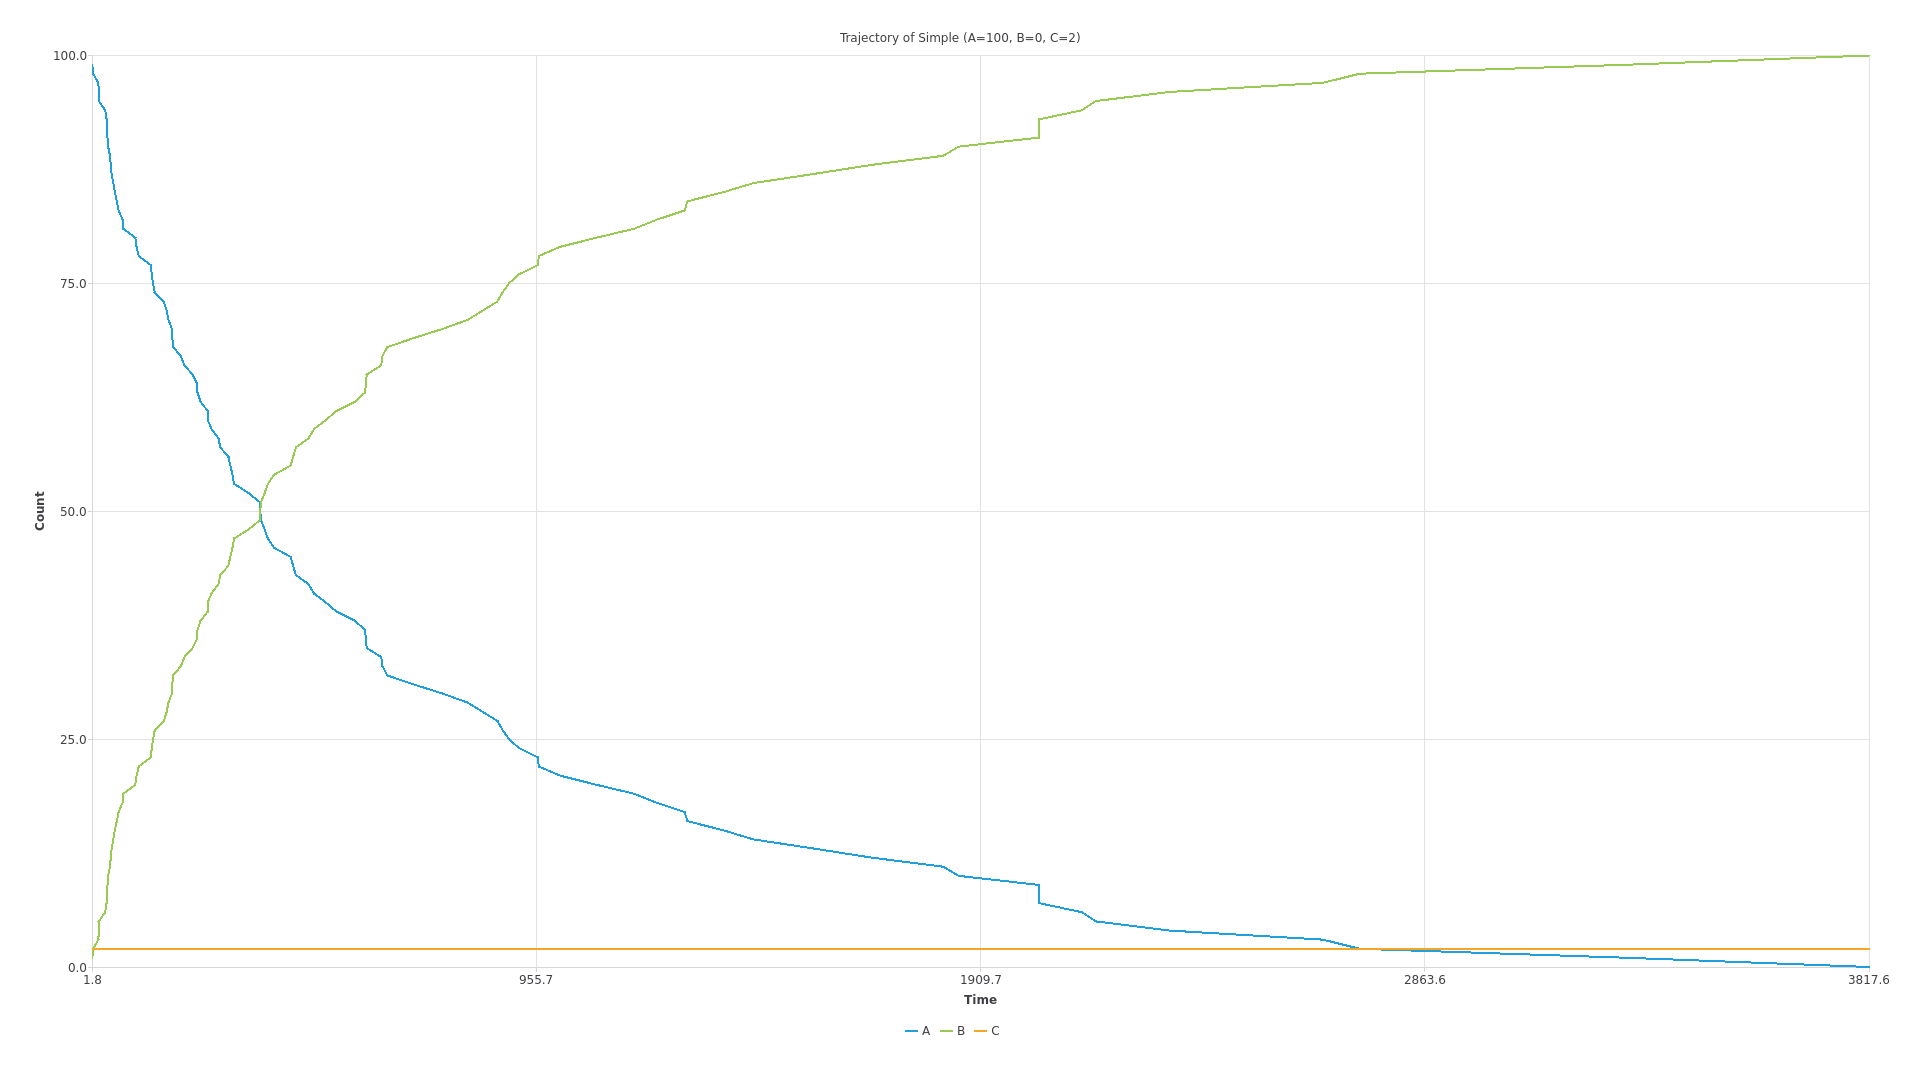
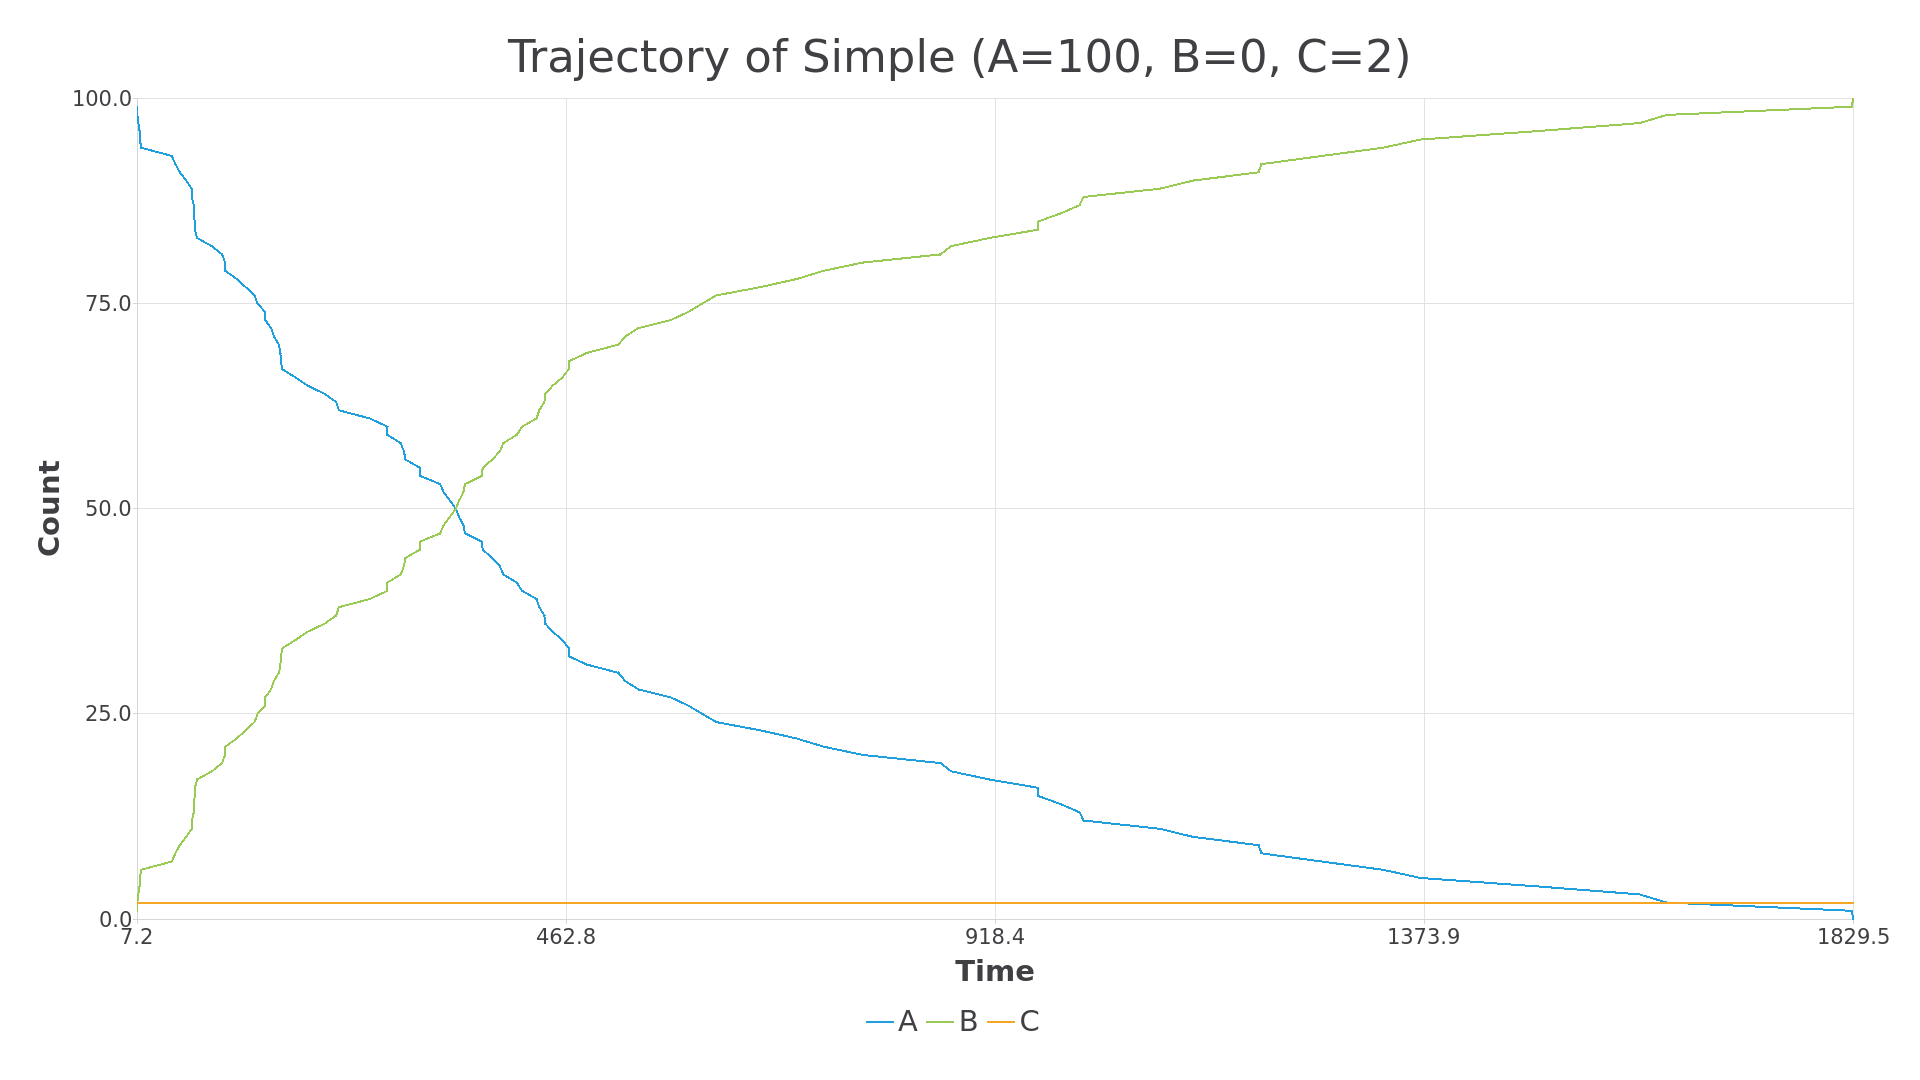
write report

diff --git a/exam_assignment/report/src/index.tex b/exam_assignment/report/src/index.tex
@@ -15,7 +15,7 @@ The project also heavily relies on the course-provided plotting library, which u
 This can be installed via \texttt{sudo apt install libqt5charts5-dev}. The plotting library has been modified to accomodate new uses.
 
 The \texttt{CMakeLists.txt} files show how the project is compiled.
-To do the compilation, run \texttt{cmake .. -DCMAKE_BUILD_TYPE=Debug} or \texttt{cmake .. -DCMAKE_BUILD_TYPE=Release} from within a build directory, and then run \texttt{make}.
+To do the compilation, run \texttt{cmake .. -DCMAKE\_BUILD\_TYPE=Debug} or \texttt{cmake .. -DCMAKE\_BUILD\_TYPE=Release} from within a (build) directory, and then run \texttt{make}.
 
 \subsection{Project structure}
 \dirtree{%
@@ -61,7 +61,10 @@ To do the compilation, run \texttt{cmake .. -DCMAKE_BUILD_TYPE=Debug} or \texttt
 }
 
 \section{Demonstration}
+Each of these were run after building the library in release mode.
+
 \subsection{Pretty-printing in human-readable format}
+\subsubsection{SEIHR}
 \begin{verbatim}
 S + I → E + I (rate: 7.74194e-06)
 E → I (rate: 0.196078)
@@ -69,6 +72,8 @@ I → R (rate: 0.322581)
 I → H (rate: 0.000290061)
 H → R (rate: 0.0988142)
 \end{verbatim}
+
+\subsubsection{Circadian Oscillator}
 \begin{verbatim}
 A + DA → D_A (rate: 1)
 D_A → DA + A (rate: 50)
@@ -87,10 +92,161 @@ R → environment (rate: 0.2)
 MA → environment (rate: 10)
 MR → environment (rate: 0.5)
 \end{verbatim}
+
+\subsubsection{Simple}
 \begin{verbatim}
 A + C → B + C (rate: 0.001)
 \end{verbatim}
 
+\subsection{Reaction network graphs}
+Figure~\ref{fig:graphs} shows the reaction network graphs.
+The graphs were generated using the \texttt{graphviz} library.
+Subsection \ref{subsection:graph_generator} shows how the graphs are created.
+
+\begin{figure}[H]
+\centering
+\begin{subfigure}{.3\textwidth}
+  \centering
+  \includegraphics[width=.9\linewidth]{images/circadian\_graph.png}
+  \caption{Circadian Graph}
+  \label{fig:circadian}
+\end{subfigure}%
+\begin{subfigure}{.3\textwidth}
+  \centering
+  \includegraphics[width=.9\linewidth]{images/simple\_graph.png}
+  \caption{Simple Graph}
+  \label{fig:simple}
+\end{subfigure}
+\begin{subfigure}{.3\textwidth}
+  \centering
+  \includegraphics[width=.9\linewidth]{images/seihr\_graph.png}
+  \caption{SEIHR Graph}
+  \label{fig:seihr}
+\end{subfigure}
+\caption{Reaction graphs over various systems}
+\label{fig:graphs}
+\end{figure}
+
+\subsection{Simulations}
+The following figures show simulations run on the systems shown in Figure~\ref{fig:graphs}.
+These graphs show the evolution of the agents of various species within the system over time, as reactions occur.
+
+\subsubsection{Simple system}
+Figure~\ref{fig:simple_sim} shows a simple system simulation.
+The implementation of the system is shown in section \ref{subsection:simple}, and the plot implementation is shown in section \ref{subsection:main}.
+
+\begin{figure}[H]
+\centering
+\includegraphics[width=1\textwidth,height=\textheight,keepaspectratio]{images/simple.png}
+\caption{Simple system simulation, given by A=100, B=0, C=2. Simulation end time set to $100.000$, but ends prior to that as no further reactions were possible.}
+\label{fig:simple_sim}
+\end{figure}
+
+\subsubsection{Circadian Oscillator}
+Figure~\ref{fig:circadian_sim} shows a circadian system simulation.
+The implementation of the system is shown in section \ref{subsection:circadian}, and the plot implementation is shown in section \ref{subsection:main}.
+
+\begin{figure}[H]
+\centering
+\includegraphics[width=1\textwidth,height=\textheight,keepaspectratio]{images/circadian.png}
+\caption{Circadian system simulation. Simulation end time set to $100$. Graph shows evolution of agents of \textit{C}, \textit{A}, and \textit{R} over time.}
+\label{fig:circadian_sim}
+\end{figure}
+
+\subsubsection{SEIHR}
+Figure~\ref{fig:seihr_sim} shows a SEIHR system simulation.
+The implementation of the system is shown in section \ref{subsection:seihr}, and the plot implementation is shown in section \ref{subsection:main}.
+
+\begin{figure}[H]
+\centering
+\includegraphics[width=1\textwidth,height=\textheight,keepaspectratio]{images/seihr.png}
+\caption{SEIHR system simulation. For this simulation, $N=10.000$. Simulation end time set to $100$. \textit{H}ospitalized agent quantities are multiplied by $1000$ to make them visible on the graph.}
+\label{fig:seihr_sim}
+\end{figure}
+
+\subsection{Peak hospitalized via SEIHR simulations}
+The following numbers show the average and peak number of hospitalizations over time.
+The peak number of hospitalizations is the maximum number of hospitalizations at any given time.
+
+The implementation of the system is shown in section \ref{subsection:seihr}, and the calculation implementation is shown in section \ref{subsection:peak_avg_seihr}.
+
+\begin{table}[ht]
+\centering
+\begin{tabular}{|l|c|c|}
+\hline
+\textbf{Population ($N$)} & \textbf{Avg Peak Hospitalized} & \textbf{Max Peak Hospitalized} \\
+\hline
+North Jutland ($589.755$) & 126.96 & 149 \\
+\hline
+Denmark ($5.882.763$) & 1206.95 & 1278 \\
+\hline
+\end{tabular}
+\caption{Average and maximum peak of hospitalized cases over $100$ simulations for different population sizes}
+\end{table}
+
+\subsection{Benchmarks}
+The following table shows benchmark results by benchmarking parallel and sequential simulations of the SEIHR system.
+The implementation of the system is shown in section \ref{subsection:seihr}, and the benchmark implementation is shown in section \ref{subsection:benchmark}.
+
+The benchmarks were run on a computer with an Intel(R) Core(TM) i7-8700K CPU, which has 6 cores \& 12 logical processors.
+
+The SEIHR system was given a population of $N=10.000$ and the simulation end time set to $100$.
+An empty state monitor was used to avoid any overhead from the state monitor.
+
+Prior to benchmarking, the computer was warmed up via a short warming-up process of running the simulation $10$ times with the first benchmark configuration (1 thread, 10 simulations).
+Each configuration was run 5 times and then the results for those five runs were averaged.
+
+Due to the system used to benchmark the simulations, I chose concurrency levels of $1$, $6$, $12$, and $18$.
+I expect that, due to the amount of processors, parallel simulation with 12 threads is the fastest configuration.
+This is because fewer threads would not utilize the system adequately, and more threads would simply lead to additional, unnecessary overhead.
+
+The benchmark results are shown in Table~\ref{tab:benchmark_results}.
+The results show that the parallel simulation is faster than the sequential simulation, and that, as expected, 12 threads is the fastest configuration.
+
+
+\begin{table}[htbp]
+\centering
+\begin{tabular}{|l|c|c|c|c|c|c|c|c|}
+\hline
+ & \multicolumn{2}{c|}{CL 1} & \multicolumn{2}{c|}{CL 6} & \multicolumn{2}{c|}{CL 12} & \multicolumn{2}{c|}{CL 18} \\
+\hline
+Simulations & Avg Time & Total Time & Avg Time & Total Time & Avg Time & Total Time & Avg Time & Total Time \\
+\hline
+$10$ & $21$.$18$ ms & $1$ s & $17$.$72$ ms & $0$ s & $22$.$34$ ms & $0$ s & $26$.$15$ ms & $0$ s \\
+\hline
+$100$ & $17$.$56$ ms & $8$ s & $17$.$81$ ms & $1$ s & $26$.$26$ ms & $1$ s & $42$.$44$ ms & $1$ s \\
+\hline
+$1000$ & $14$.$18$ ms & $71$ s & $17$.$56$ ms & $14$ s & $26$.$73$ ms & $11$ s & $42$.$00$ ms & $13$ s \\
+\hline
+$10000$ & $14$.$14$ ms & $711$ s & $17$.$73$ ms & $148$ s & $30$.$25$ ms & $126$ s & $40$.$85$ ms & $130$ s \\
+\hline
+\end{tabular}
+\caption{Benchmark results showing average and total runtime for each simulation under different concurrency levels (CL)}
+\label{tab:benchmark_results}
+\end{table}
+
+The following figures illustrate the benchmark results from Table~\ref{tab:benchmark_results} clearly.
+As we can see in Figure~\ref{fig:avg_sim_benchmark_results}, task times grow with increasing concurrency levels.
+This is to be expected, as the system is under greater load, so the time it takes to complete a task increases.
+However, as we can see in Figure~\ref{fig:total_sim_benchmark_results}, the total time decreases with increasing concurrency levels.
+
+\begin{figure}[H]
+\centering
+\includegraphics[width=1\textwidth,height=\textheight,keepaspectratio]{images/avg\_sim\_benchmark\_results.png}
+\caption{Benchmark results showing average runtime for each simulation under different concurrency levels (CL).}
+\label{fig:avg_sim_benchmark_results}
+\end{figure}
+
+\begin{figure}[H]
+\centering
+\includegraphics[width=1\textwidth,height=\textheight,keepaspectratio]{images/total\_sim\_benchmark\_results.png}
+\caption{Benchmark results showing total runtime for each simulation under different concurrency levels (CL).}
+\label{fig:total_sim_benchmark_results}
+\end{figure}
+
+
+
+\newpage
 
 \section{Source code}
 % Main CMakeLists.txt file
@@ -103,10 +259,10 @@ A + C → B + C (rate: 0.001)
 \subsubsection{src/CMakeLists.txt}
 \lstinputlisting[style=colorC++,caption={src/CMakeLists.txt}]{../../src/CMakeLists.txt}
 \newpage
-\subsubsection{src/main.cpp}
+\subsubsection{src/main.cpp}\label{subsection:main}
 \lstinputlisting[style=colorC++,caption={src/main.cpp}]{../../src/main.cpp}
 \newpage
-\subsubsection{src/graph\_generator.cpp}
+\subsubsection{src/graph\_generator.cpp}\label{subsection:graph_generator}
 \lstinputlisting[style=colorC++,caption={src/graph\_generator.cpp}]{../../src/graph\_generator.cpp}
 \newpage
 \subsubsection{src/graph\_generator.h}
@@ -136,22 +292,22 @@ A + C → B + C (rate: 0.001)
 % src/examples directory
 \newpage
 \subsection{src/examples}
-\subsubsection{src/examples/circadian\_oscillator.cpp}
+\subsubsection{src/examples/circadian\_oscillator.cpp}\label{subsection:circadian_oscillator}
 \lstinputlisting[style=colorC++,caption={src/examples/circadian\_oscillator.cpp}]{../../src/examples/circadian\_oscillator.cpp}
 \newpage
 \subsubsection{src/examples/examples.h}
 \lstinputlisting[style=colorC++,caption={src/examples/examples.h}]{../../src/examples/examples.h}
 \newpage
-\subsubsection{src/examples/seihr.cpp}
+\subsubsection{src/examples/seihr.cpp}\label{subsection:seihr}
 \lstinputlisting[style=colorC++,caption={src/examples/seihr.cpp}]{../../src/examples/seihr.cpp}
 \newpage
-\subsubsection{src/examples/simple.cpp}
+\subsubsection{src/examples/simple.cpp}\label{subsection:simple}
 \lstinputlisting[style=colorC++,caption={src/examples/simple.cpp}]{../../src/examples/simple.cpp}
 
 % src/exercises directory
 \newpage
 \subsection{src/exercises}
-\subsubsection{src/exercises/benchmark.cpp}
+\subsubsection{src/exercises/benchmark.cpp}\label{subsection:benchmark}
 \lstinputlisting[style=colorC++,caption={src/exercises/benchmark.cpp}]{../../src/exercises/benchmark.cpp}
 \newpage
 \subsubsection{src/exercises/benchmark.h}
@@ -163,7 +319,7 @@ A + C → B + C (rate: 0.001)
 \subsubsection{src/exercises/make\_graphs.h}
 \lstinputlisting[style=colorC++,caption={src/exercises/make\_graphs.h}]{../../src/exercises/make\_graphs.h}
 \newpage
-\subsubsection{src/exercises/peak\_avg\_seihr.cpp}
+\subsubsection{src/exercises/peak\_avg\_seihr.cpp}\label{subsection:peak_avg_seihr}
 \lstinputlisting[style=colorC++,caption={src/exercises/peak\_avg\_seihr.cpp}]{../../src/exercises/peak\_avg\_seihr.cpp}
 \newpage
 \subsubsection{src/exercises/peak\_avg\_seihr.h}

diff --git a/exam_assignment/src/plot/plot.cpp b/exam_assignment/src/plot/plot.cpp
@@ -14,6 +14,7 @@
 
 #include <random>
 #include <algorithm>
+#include <QValueAxis>
 
 QT_CHARTS_USE_NAMESPACE
 
@@ -85,6 +86,36 @@ void plot_t::process()
         ch->axes(Qt::Vertical).first()->setTitleText(y_axis_label.c_str());
     if (!ch->axes(Qt::Horizontal).isEmpty())
         ch->axes(Qt::Horizontal).first()->setTitleText(x_axis_label.c_str());
+
+    QFont font = ch->titleFont();
+    font.setPointSize(34); // Set the font size you want for the title
+    ch->setTitleFont(font);
+
+    QValueAxis *axisX = qobject_cast<QValueAxis *>(ch->axes(Qt::Horizontal).first());
+    font = axisX->labelsFont();
+    font.setPointSize(16); // Set the font size you want for the x axis
+    axisX->setLabelsFont(font);
+
+    QValueAxis *axisY = qobject_cast<QValueAxis *>(ch->axes(Qt::Vertical).first());
+    font = axisY->labelsFont();
+    font.setPointSize(16); // Set the font size you want for the y axis
+    axisY->setLabelsFont(font);
+
+    font = ch->legend()->font();
+    font.setPointSize(22); // Set the font size you want for the legend
+    ch->legend()->setFont(font);
+
+    auto* yAxis = ch->axes(Qt::Vertical).first();
+    yAxis->setTitleText(y_axis_label.c_str());
+    QFont fontY = yAxis->titleFont();
+    fontY.setPointSize(22); // change this to increase or decrease the size
+    yAxis->setTitleFont(fontY);
+
+    auto* xAxis = ch->axes(Qt::Horizontal).first();
+    xAxis->setTitleText(x_axis_label.c_str());
+    QFont fontX = xAxis->titleFont();
+    fontX.setPointSize(22); // change this to increase or decrease the size
+    xAxis->setTitleFont(fontX);
 
     ch->legend()->setMarkerShape(QLegend::MarkerShapeFromSeries);
     ch->legend()->setAlignment(Qt::AlignBottom);

diff --git a/exam_assignment/src/exercises/peak_avg_seihr.cpp b/exam_assignment/src/exercises/peak_avg_seihr.cpp
@@ -39,23 +39,17 @@ double calculate_peak(const std::vector<double>& xs) {
 
 // Solution to second part of requirement 7: Use it to estimate
 // the peak of hospitalized agents in Covid-19 example without storing trajectory data for NNJ and NDK.
-void calculate_peak_and_avg_seihr(size_t num_simulations, size_t concurrency_level) {
+void calculate_peak_and_avg_seihr(size_t num_simulations, size_t concurrency_level, size_t N) {
     auto begin = std::chrono::steady_clock::now();
-    const size_t N_NJ = 589755;
-    const size_t N_DK = 5882763;
 
     std::cout << "Simulating SEIHR..." << std::endl;
 
-    perform_parallel_simulations(N_NJ, num_simulations, concurrency_level, [&](std::vector<double> const &results) {
+    perform_parallel_simulations(N, num_simulations, concurrency_level, [&](std::vector<double> const &results) {
         double avg_peak = calculate_mean(results);
-        std::cout << "Average peak of Hospitalized in NJ over " << num_simulations << " simulations: " << avg_peak
-                  << std::endl;
-    });
-
-    perform_parallel_simulations(N_DK, num_simulations, concurrency_level, [&](std::vector<double> const &results) {
         double max_peak = calculate_peak(results);
-        std::cout << "Maximum peak of Hospitalized in DK over " << num_simulations << " simulations: " << max_peak
-                  << std::endl;
+
+        std::cout << "Average peak of Hospitalized over " << num_simulations << " simulations: " << avg_peak << std::endl;
+        std::cout << "Maximum peak of Hospitalized over " << num_simulations << " simulations: " << max_peak << std::endl;
     });
 
     auto end = std::chrono::steady_clock::now();

diff --git a/exam_assignment/src/main.cpp b/exam_assignment/src/main.cpp
@@ -31,7 +31,6 @@ auto make_ips_counter(Func& func) {
     };
 }
 
-//
 void plot_circadian() {
     auto circadian_system = circadian_oscillator();
     auto trajectoryMonitor = SpeciesTrajectoryMonitor();
@@ -142,7 +141,14 @@ int main(int argc, char const *argv[])
     // the peak of hospitalized agents in Covid-19 example without storing trajectory data for NNJ and NDK.
     // Solution to the second part of requirement 8: Estimate the likely (mean) value of the hospitalized peak over 20 simulations.
     // Except I did it over 100 simulations.
-    calculate_peak_and_avg_seihr(100, 12);
+    const size_t N_NJ = 589755;
+    const size_t N_DK = 5882763;
+
+    std::cout << "SEIHR peak and avg hospitalized agents for North Jutland population size" << std::endl;
+    calculate_peak_and_avg_seihr(100, 12, N_NJ);
+
+    std::cout << "SEIHR peak and avg hospitalized agents for Denmark population size" << std::endl;
+    calculate_peak_and_avg_seihr(100, 12, N_DK);
 
     // Solves requirement 10: Benchmark and compare the stochastic simulation performance (e.g. the time it takes to compute 20 simulations
     // a single core, multiple cores, or improved implementation). Make your conclusions.

diff --git a/exam_assignment/src/exercises/peak_avg_seihr.h b/exam_assignment/src/exercises/peak_avg_seihr.h
@@ -21,6 +21,6 @@ double calculate_mean(const std::vector<double>& xs);
 
 double calculate_peak(const std::vector<double>& xs);
 
-void calculate_peak_and_avg_seihr(size_t num_simulations, size_t concurrency_level);
+void calculate_peak_and_avg_seihr(size_t num_simulations, size_t concurrency_level, size_t N);
 
 #endif //PEAK_AVG_SEIHR_H

diff --git a/exam_assignment/report/src/_preamble.tex b/exam_assignment/report/src/_preamble.tex
@@ -14,7 +14,9 @@
 \usepackage{verbatim}
 \usepackage{graphicx} % \includegraphics[width=\textwidth]{image.png}
 
+\usepackage{subcaption}
 \usepackage{dirtree}
+\usepackage{float}
 
 \protected\def\plusminus{\ensuremath{\pm}}
 
